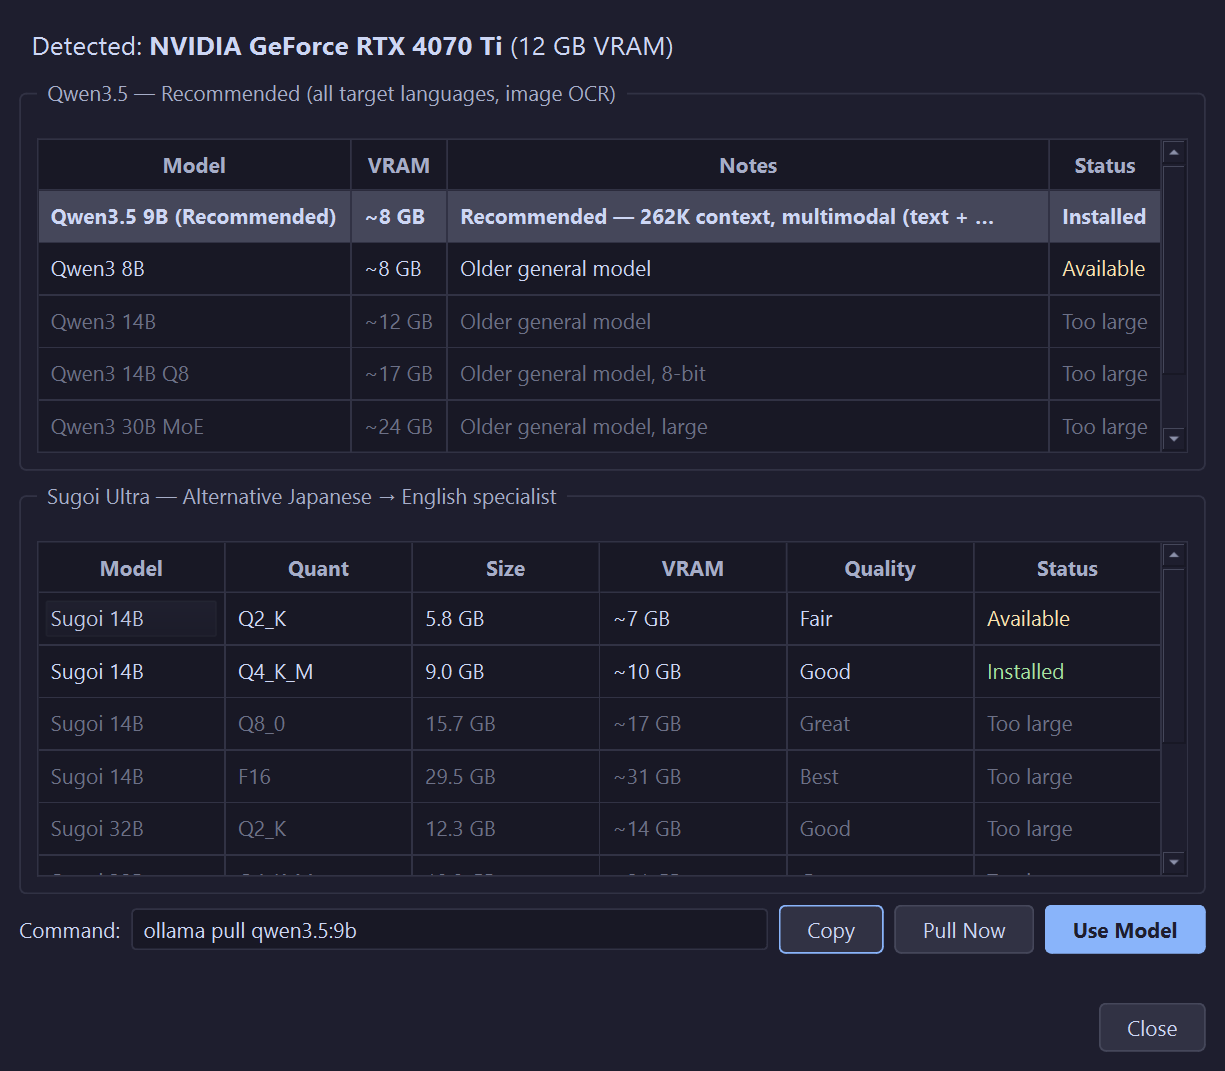
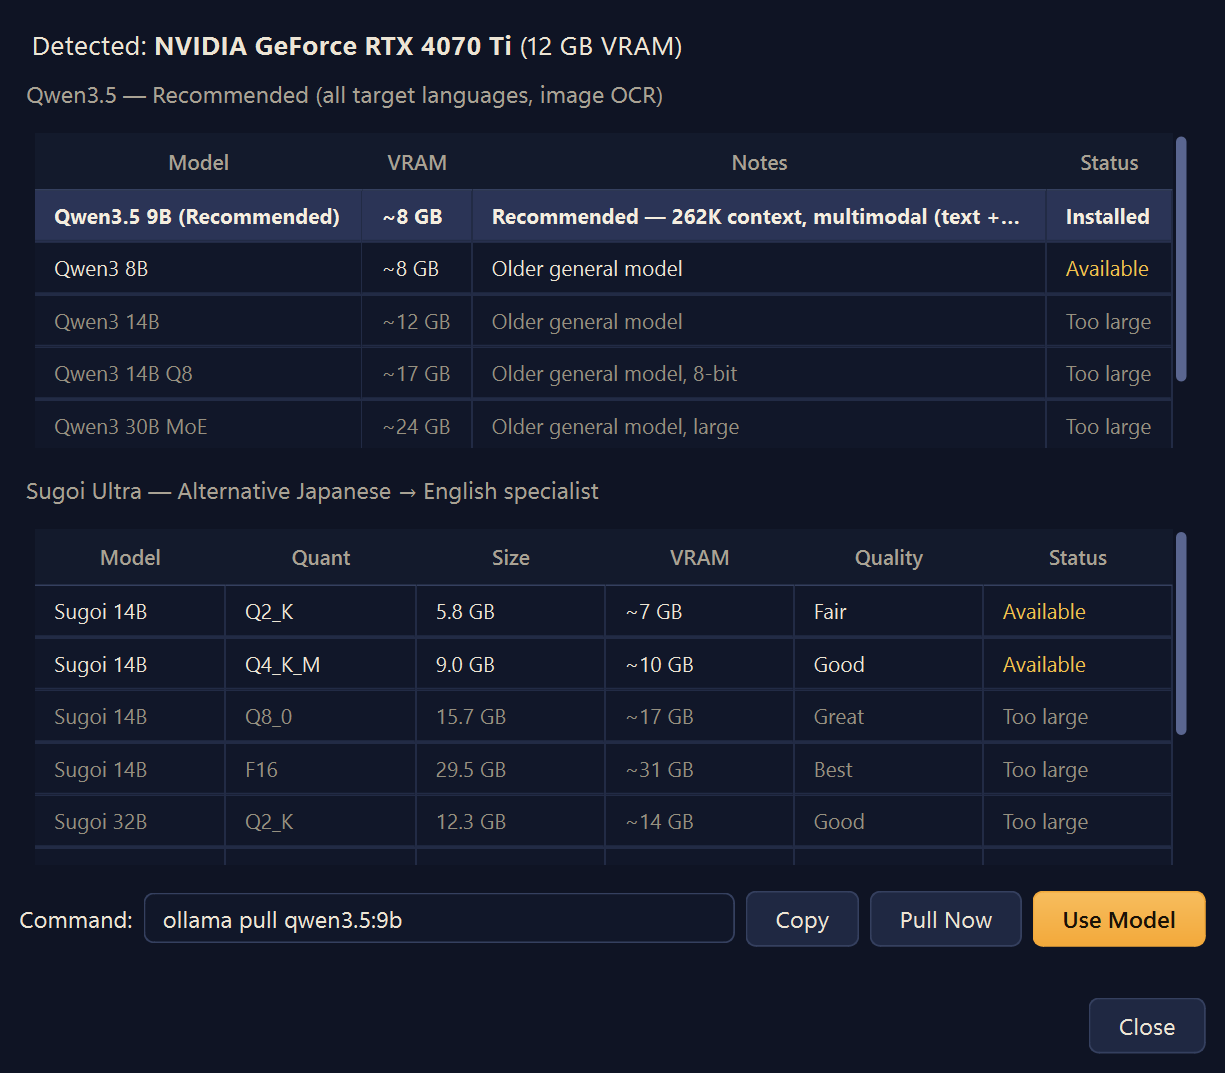
Release 1.1.0: new screenshots, changelog and version for the UI overhaul

diff --git a/translator/version.py b/translator/version.py
@@ -5,4 +5,4 @@ the release workflow refuses to build if the pushed tag ``vX.Y.Z`` does
 not match ``__version__``.
 """
 
-__version__ = "1.0.1"
+__version__ = "1.1.0"

diff --git a/CHANGELOG.md b/CHANGELOG.md
@@ -9,6 +9,36 @@ The release workflow publishes the section whose heading matches the pushed tag
 
 ## [Unreleased]
 
+## [1.1.0] - 2026-11-01
+
+A visual overhaul. Nothing about how translation works has changed; the app just looks and reads
+like a modern tool now, with a palette taken from the logo ("candlelit study": ink navy, parchment
+and candle amber) in both dark and light themes.
+
+### Changed
+
+- New look throughout: Lucide icons on menus, tabs and the file tree; flat tabs; no more boxed
+  group frames; readable type and contrast (WCAG AA for text).
+- One workflow bar: the old toolbar and pipeline strip are merged into a single stepper with a
+  clear "Next" button. "Apply to Game" becomes the main button once export is the only step left.
+- Main screen: the table now takes the full height, with the editor in a collapsible side pane.
+  Ctrl+Enter in the English box saves and jumps to the next untranslated line.
+- Rows show their status as a coloured stripe plus a shape (ring, dot, tick) instead of full-row
+  colour fills, so they are calmer and readable for colour-blind users. English is shown larger
+  than Japanese, File and Event are merged into one compact "Where" column, and dialogue lines
+  show the speaker as a coloured name tag.
+- One search box with filter pills replaces the row of dropdowns and checkboxes.
+- New project header: game title, engine and translated / reviewed progress.
+- Welcome page: logo, drop-a-folder area, step cards, engine badges and recent projects.
+- Event Viewer and Translation Queue use the same side-editor layout and icons; empty tabs now
+  explain themselves instead of showing a blank pane.
+- Settings → Options is grouped into sections, each option with a one-line explanation.
+- The GPU panel shows VRAM and GPU use as slim bars with the reading beside them.
+
+### Fixed
+
+- Large projects scroll and filter more smoothly (speaker names and display text are cached).
+
 ## [1.0.1] - 2026-10-30
 
 A small maintenance release: a better default model for new installs, the new licence, and updated

diff --git a/README.md b/README.md
@@ -25,10 +25,14 @@ Cloud API engine ported from <a href="https://github.com/dazedanon/DazedMTLTool"
 
 | | |
 |---|---|
-| ![Model picker](screenshots/model_picker.png) | ![Per-engine settings](screenshots/settings_engines.png) |
-| GPU-aware model picker on first launch | Per-engine context, batch, workers and model |
-| ![Translate menu](screenshots/menu_translate.png) | ![Options](screenshots/settings_options.png) |
-| Two-stage workflow: database first, then dialogue | Export and word-wrap options |
+| ![Welcome](screenshots/welcome.png) | ![Light theme](screenshots/main_light.png) |
+| Drop a game folder to start | Parchment light theme |
+| ![Event Viewer](screenshots/event_viewer.png) | ![Translation queue](screenshots/queue.png) |
+| Scene-by-scene review with speaker names | Live translation queue |
+| ![Model picker](screenshots/model_picker.png) | ![Options](screenshots/settings_options.png) |
+| GPU-aware model picker on first launch | Options, each with a plain-English explanation |
+| ![Per-engine settings](screenshots/settings_engines.png) | |
+| Per-engine context, batch, workers and model | |
 
 </details>
 
@@ -270,7 +274,7 @@ Project entries override general entries for the same JP term.
 | Workers | 2 | Parallel events translated at once. More workers = more events in parallel. 2-3 for 12GB GPUs running 9-14B models, 4+ for cloud APIs |
 | Batch size | 5 | Lines per request within an event. Batches never cross event boundaries — a 4-line event sends 4, a 25-line event with batch=10 sends 10/10/5 |
 | Translation history | 10 | Recent translations sent as assistant messages |
-| Dark mode | On | Catppuccin dark theme |
+| Dark mode | On | "Candlelit" dark theme (off = parchment light theme) |
 
 ### Engines Tab
 
